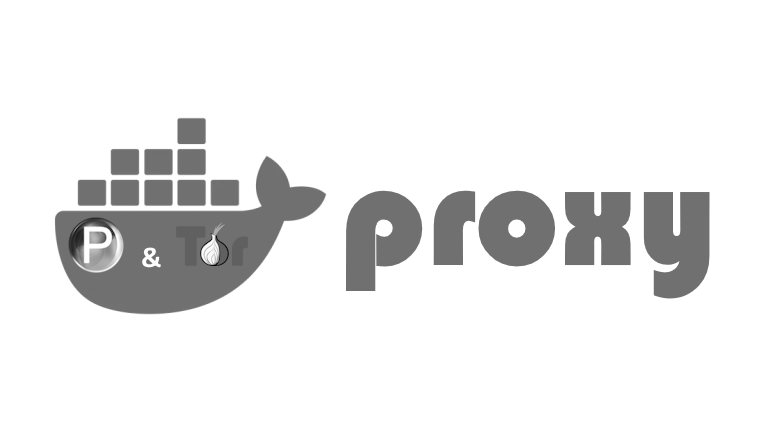
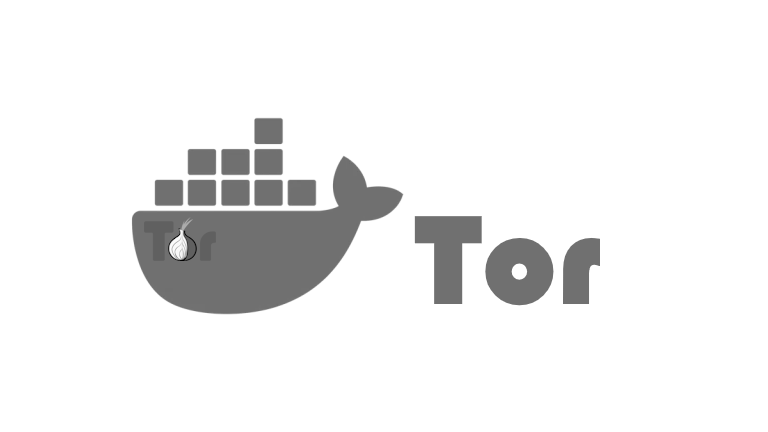
fix: update

Changed region(s): [[0.0625, 0.2708, 0.9375, 0.7523]]

diff --git a/README.md b/README.md
@@ -1,4 +1,4 @@
-# Docker Tor Proxy
+# Docker: Tor Proxy
 
 ![Docker Tor Proxy](https://raw.githubusercontent.com/baklai/proxy/main/preview.png)
 
@@ -14,7 +14,7 @@ The quickest way to get started is using bash script.
 
 ```bash
 # Linux
-wget -O proxy-init.sh https://raw.githubusercontent.com/baklai/docker-tor/main/tor-init.sh
+wget -O tor-init.sh https://raw.githubusercontent.com/baklai/docker-tor/main/tor-init.sh
 chmod +x tor-init.sh
 ./tor-init.sh
 
@@ -42,8 +42,8 @@ or create custom docker compose file `compose.yaml`
 # Create custom docker compose file
 
 services:
-  proxy:
-    image: baklai/proxy:latest
+  tor:
+    image: baklai/tor:latest
     ports:
       - '9050:9050'
     volumes:
